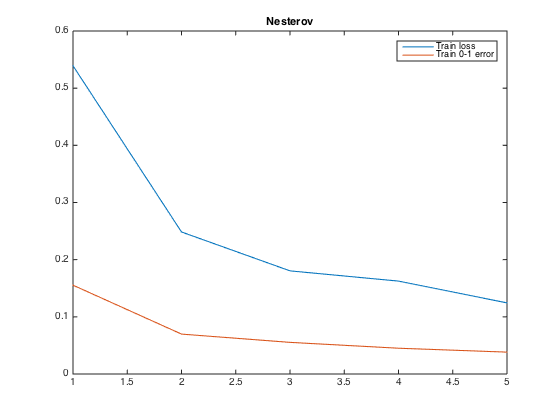
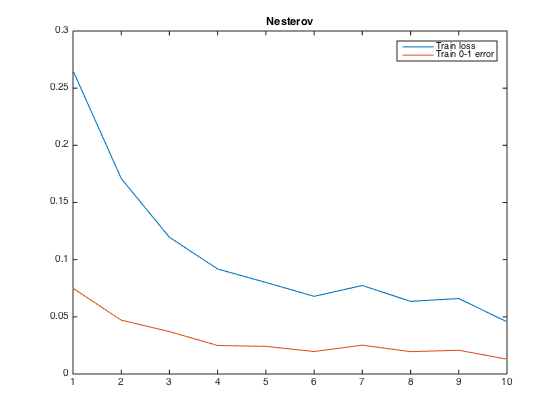
Orthogonal initialization + better data source
- Option for orthogonal initialization of weights
- Data source support large files

diff --git a/html/demoMNIST.html b/html/demoMNIST.html
@@ -6,7 +6,7 @@
    <!--
 This HTML was auto-generated from MATLAB code.
 To make changes, update the MATLAB code and republish this document.
-      --><title>a simple demonstration of the EasyConvNet code</title><meta name="generator" content="MATLAB 8.4"><link rel="schema.DC" href="http://purl.org/dc/elements/1.1/"><meta name="DC.date" content="2014-12-30"><meta name="DC.source" content="demoMNIST.m"><style type="text/css">
+      --><title>a simple demonstration of the EasyConvNet code</title><meta name="generator" content="MATLAB 8.4"><link rel="schema.DC" href="http://purl.org/dc/elements/1.1/"><meta name="DC.date" content="2015-01-28"><meta name="DC.source" content="demoMNIST.m"><style type="text/css">
 html,body,div,span,applet,object,iframe,h1,h2,h3,h4,h5,h6,p,blockquote,pre,a,abbr,acronym,address,big,cite,code,del,dfn,em,font,img,ins,kbd,q,s,samp,small,strike,strong,sub,sup,tt,var,b,u,i,center,dl,dt,dd,ol,ul,li,fieldset,form,label,legend,table,caption,tbody,tfoot,thead,tr,th,td{margin:0;padding:0;border:0;outline:0;font-size:100%;vertical-align:baseline;background:transparent}body{line-height:1}ol,ul{list-style:none}blockquote,q{quotes:none}blockquote:before,blockquote:after,q:before,q:after{content:'';content:none}:focus{outine:0}ins{text-decoration:none}del{text-decoration:line-through}table{border-collapse:collapse;border-spacing:0}
 
 html { min-height:100%; margin-bottom:1px; }
@@ -93,10 +93,10 @@ testLabels = <span class="string">'data/test.labels.bin'</span>;
     struct(<span class="string">'type'</span>,<span class="string">'relu'</span>,<span class="string">'inInd'</span>,7,<span class="string">'outInd'</span>,7),  <span class="keyword">...</span>
     struct(<span class="string">'type'</span>,<span class="string">'affine'</span>,<span class="string">'inInd'</span>,7,<span class="string">'outInd'</span>,8,<span class="string">'nOutChannels'</span>,10,<span class="string">'bias_filler'</span>,0), <span class="keyword">...</span>
     struct(<span class="string">'type'</span>,<span class="string">'loss'</span>,<span class="string">'inInd'</span>,[8 2],<span class="string">'outInd'</span>,10,<span class="string">'lossType'</span>,<span class="string">'MCLogLoss'</span>) };
-</pre><h2>initialize a network class<a name="4"></a></h2><pre class="codeinput">cnn = ConvNet(lenet,atGPU);
+</pre><h2>initialize a network class<a name="4"></a></h2><pre class="codeinput">cnn = ConvNet(lenet,atGPU,<span class="string">'Orthogonal'</span>);
 </pre><h2>For debugging purposes, show some images<a name="5"></a></h2><pre class="codeinput">x = cnn.net{1}.data.get(1); y = cnn.net{2}.data.get(1); [~,bla] = max(y);
 figure; <span class="keyword">for</span> i=1:25, subplot(5,5,i); imagesc(squeeze(x(:,:,:,i))'); colormap <span class="string">gray</span>; axis <span class="string">off</span>; title(sprintf(<span class="string">'%d'</span>,bla(i)-1));  <span class="keyword">end</span>
-</pre><img vspace="5" hspace="5" src="demoMNIST_01.png" alt=""> <h2>Train using SGD with Nesterov's momentum<a name="6"></a></h2><p>mandatory fields</p><pre class="codeinput">T = 500; mu = single(0.9); printIter = 100; lam =  single(0.0005);
+</pre><img vspace="5" hspace="5" src="demoMNIST_01.png" alt=""> <h2>Train using SGD with Nesterov's momentum<a name="6"></a></h2><p>mandatory fields</p><pre class="codeinput">T = 1000; mu = single(0.9); printIter = 100; lam =  single(0.0005);
 learning_rate = @(t)(0.01*(1+0.0001*t)^(-0.75)); <span class="comment">% learning rate rule</span>
 <span class="comment">% optional fields</span>
 param.snapshotFile = <span class="string">'/tmp/snapshot'</span>; param.printIter = 100; param.printDecay = 0.9;
@@ -104,11 +104,16 @@ param.snapshotFile = <span class="string">'/tmp/snapshot'</span>; param.printIte
 cnn.Nesterov(T,learning_rate,mu,lam,param);
 <span class="comment">% plot convergence</span>
 figure; plot(cnn.AllLoss'); title(<span class="string">'Nesterov'</span>); legend(<span class="string">'Train loss'</span>,<span class="string">'Train 0-1 error'</span>);
-</pre><pre class="codeoutput">Iter: 100: 0.539155 0.155343 
-Iter: 200: 0.248436 0.069815 
-Iter: 300: 0.180418 0.055339 
-Iter: 400: 0.162504 0.045102 
-Iter: 500: 0.124395 0.038260 
+</pre><pre class="codeoutput">Iter: 100: 0.265366 0.075039 
+Iter: 200: 0.171004 0.047117 
+Iter: 300: 0.119551 0.037094 
+Iter: 400: 0.091825 0.024946 
+Iter: 500: 0.080097 0.024165 
+Iter: 600: 0.067927 0.019668 
+Iter: 700: 0.077423 0.025204 
+Iter: 800: 0.063537 0.019559 
+Iter: 900: 0.065999 0.020782 
+Iter: 1000: 0.045626 0.012953 
 </pre><img vspace="5" hspace="5" src="demoMNIST_02.png" alt=""> <h2>calculate test error<a name="7"></a></h2><pre class="codeinput">testlenet = lenet;
 testlenet{1}.fName = testImages;
 testlenet{2}.fName = testLabels;
@@ -116,7 +121,7 @@ testNet = ConvNet(testlenet,atGPU);
 testNet.setTheta(cnn.theta);
 testNet.calcLossAndErr();
 fprintf(1,<span class="string">'Test loss= %f, Test accuracy = %f\n'</span>,testNet.Loss(1),1-testNet.Loss(2));
-</pre><pre class="codeoutput">Test loss= 0.099955, Test accuracy = 0.969900
+</pre><pre class="codeoutput">Test loss= 0.054117, Test accuracy = 0.982300
 </pre><p class="footer"><br><a href="http://www.mathworks.com/products/matlab/">Published with MATLAB&reg; R2014b</a><br></p></div><!--
 ##### SOURCE BEGIN #####
 %% a simple demonstration of the EasyConvNet code
@@ -167,7 +172,7 @@ lenet = { ...
 
 %% initialize a network class
 
-cnn = ConvNet(lenet,atGPU);
+cnn = ConvNet(lenet,atGPU,'Orthogonal');
 
 %% For debugging purposes, show some images
 x = cnn.net{1}.data.get(1); y = cnn.net{2}.data.get(1); [~,bla] = max(y);
@@ -176,7 +181,7 @@ figure; for i=1:25, subplot(5,5,i); imagesc(squeeze(x(:,:,:,i))'); colormap gray
 
 %% Train using SGD with Nesterov's momentum
 % mandatory fields
-T = 500; mu = single(0.9); printIter = 100; lam =  single(0.0005); 
+T = 1000; mu = single(0.9); printIter = 100; lam =  single(0.0005); 
 learning_rate = @(t)(0.01*(1+0.0001*t)^(-0.75)); % learning rate rule
 % optional fields
 param.snapshotFile = '/tmp/snapshot'; param.printIter = 100; param.printDecay = 0.9;

diff --git a/ConvNet.m b/ConvNet.m
@@ -22,8 +22,11 @@ classdef ConvNet < handle
     
     methods
         
-        function this = ConvNet(netD,atGPU)
+        function this = ConvNet(netD,atGPU,weightsInitialization)
             % Constructor. See demoMNIST for example
+            if nargin<3
+                weightsInitialization = 'Orthogonal';
+            end
             if atGPU
                 this.mygpuArray = @(x) gpuArray(x);
                 this.mygather = @(x) gather(x);
@@ -33,8 +36,17 @@ classdef ConvNet < handle
             end
             netD=this.add_reduced_conv_layers(netD);
             this.initializeNet(netD,atGPU);
+            this.initializeWeights(weightsInitialization);
             this.nLayers = length(this.net);
             this.delta = cell(size(this.O));
+            % make everything single and atGPU
+            this.theta = this.mygpuArray(single(this.theta));
+            for i=1:length(this.O)
+                if ~isempty(this.O{i})
+                    this.O{i} = this.mygpuArray(this.O{i});
+                end
+            end
+
         end
         
         % forward function
@@ -187,7 +199,7 @@ classdef ConvNet < handle
                 this.theta = this.theta + history;
                 
                 % choose mini batch
-                i = randi(m,1,1);
+                i = this.net{1}.data.nextRand();
                 % forward backward
                 this.forward(i);
                 this.backward(lam);
@@ -209,7 +221,7 @@ classdef ConvNet < handle
 
             for t=1:T
                 % choose mini batch
-                i = randi(m,1,1);
+                i = this.net{1}.data.nextRand();
                 % forward backward
                 this.forward(i);
                 this.backward(lam);
@@ -246,7 +258,7 @@ classdef ConvNet < handle
             
             for t=1:T
                 % choose mini batch
-                i = randi(m,1,1);
+                i = this.net{1}.data.nextRand();
                 galpha = this.mygpuArray(alpha(:,i));
                 % forward backward
                 this.forward(i);
@@ -380,7 +392,7 @@ classdef ConvNet < handle
                         
                         % then affine layer
                         nOut = netD{i}.nOutChannels;
-                        W = (rand(netD{i}.nOutChannels,blobDim(1))-0.5)/ sqrt(blobDim(1)) * sqrt(3);
+                        W = zeros(netD{i}.nOutChannels,blobDim(1));
                         Wind = length(this.theta)+(1:length(W(:)));
                         this.theta = [this.theta ; W(:)];
                         b = zeros(nOut,1) + netD{i}.bias_filler;
@@ -428,7 +440,7 @@ classdef ConvNet < handle
                         blobDim = size(this.O{inInd});
                         ncol = blobDim(2);
                         nrows = blobDim(1);
-                        W = (rand(netD{i}.nOutChannels,nrows)-0.5)/ sqrt(nrows) * sqrt(3);
+                        W = zeros(netD{i}.nOutChannels,nrows);
                         Wind = length(this.theta)+(1:length(W(:)));
                         this.theta = [this.theta ; W(:)];
                         b = zeros(netD{i}.nOutChannels,1) + netD{i}.bias_filler;
@@ -530,16 +542,7 @@ classdef ConvNet < handle
                         assert(false,'Unknown Layer type')
                 end
             end
-            
-            
-            % make everything single, atGPU, and allocate delta
-            this.theta = this.mygpuArray(single(this.theta));
-            for i=1:length(this.O)
-                if ~isempty(this.O{i})
-                    this.O{i} = this.mygpuArray(this.O{i});
-                end
-            end
-            
+                        
         end
         
         
@@ -672,6 +675,23 @@ classdef ConvNet < handle
             end
         end
 
+        
+        function initializeWeights(this,initMethod)
+            for i=1:length(this.net)
+                if strcmp(this.net{i}.type,'affine')
+                    switch initMethod
+                        case 'Orthogonal'
+                            [Q,~] = qr(randn(this.net{i}.Wshape)');
+                            W = Q(1:this.net{i}.Wshape(1),:);
+                        case 'Xavier'
+                            W = (rand(this.net{i}.Wshape)-0.5)/ sqrt(this.net{i}.Wshape(2)) * sqrt(3);
+                        otherwise
+                            fprintf(1,'Unknown initalization method %s\n',initMethod);
+                    end
+                    this.theta(this.net{i}.Ws:this.net{i}.We) = W(:);
+                end
+            end
+        end
         
     end
     

diff --git a/dataClass.m b/dataClass.m
@@ -4,9 +4,19 @@ classdef dataClass < handle
         X;
         scale;
         atGPU;
+        type;
         m;
         blobSize;
+        blobSizeBytes;
         cellInd;
+        fid;
+        curInd;
+        nExamplesInBlock;
+        curBlock;
+        blockInds;
+        nBlocks;
+        blockStart;
+        blockEnd;
     end
     
     
@@ -16,12 +26,19 @@ classdef dataClass < handle
             this.atGPU = atGPU;
             this.scale = scale;
             this.blobSize = blobSize;
+            this.type = type;
             
-            fid = fopen(fName,'rb');
-            this.X = fread(fid,maxExamples*prod(this.blobSize),type);
-            this.m = floor(length(this.X)/(prod(this.blobSize)));
-            this.X = reshape(this.X(1:(this.m*prod(this.blobSize))),[this.blobSize , this.m]);
-            fclose(fid);
+            this.fid = fopen(fName,'rb');
+            fread(this.fid,prod(this.blobSize),type);
+            this.blobSizeBytes = ftell(this.fid);
+            fseek(this.fid,0,'eof');
+            lenInBytes = ftell(this.fid);
+            this.m = min(floor(lenInBytes/this.blobSizeBytes),maxExamples);
+            
+            this.nExamplesInBlock = min(this.m, floor(2^30 / this.blobSizeBytes));
+            this.nBlocks = ceil(this.m / this.nExamplesInBlock);
+            this.curBlock = 0;
+            this.fetchBlock(1);
             
             this.cellInd = cell(length(size(this.X)),1); 
             for i=1:(length(this.cellInd)-1)
@@ -29,13 +46,45 @@ classdef dataClass < handle
             end
         end
 
+        function delete(this)
+            fclose(this.fid);
+        end
+        
         function x = get(this,i)
+            if i<this.blockStart || i>this.blockEnd
+                this.fetchBlock(ceil(i/this.nExamplesInBlock));
+            end
+            i = mod(i,this.nExamplesInBlock);
+            if i==0
+                i=length(this.blockInds);
+            end
             this.cellInd{end} = i;
             if this.atGPU
                 x = gpuArray(single(this.X(this.cellInd{:})*this.scale));
             else
                 x = single(this.X(this.cellInd{:})*this.scale);
             end
+        end
+        
+        function ind=nextRand(this)
+            if this.curInd == length(this.blockInds)
+                this.fetchBlock(randi(this.nBlocks,1,1));
+            end
+            this.curInd = this.curInd+1;
+            ind = this.blockInds(this.curInd);
+        end
+        
+        function fetchBlock(this,ind)
+            if ind ~= this.curBlock
+                this.curBlock = ind;
+                fseek(this.fid,(this.curBlock-1)*this.nExamplesInBlock*this.blobSizeBytes,'bof');
+                this.blockStart = (this.curBlock-1)*this.nExamplesInBlock + 1;
+                this.blockEnd = min(this.m,this.blockStart - 1 + this.nExamplesInBlock);
+                n = this.blockEnd - this.blockStart + 1;
+                this.X = reshape(fread(this.fid,n*prod(this.blobSize),this.type),[this.blobSize n]);
+            end
+            this.blockInds = this.blockStart-1 + randperm(this.blockEnd - this.blockStart + 1);
+            this.curInd = 0;
         end
         
     end

diff --git a/demoMNIST.m b/demoMNIST.m
@@ -46,7 +46,7 @@ lenet = { ...
 
 %% initialize a network class
 
-cnn = ConvNet(lenet,atGPU);
+cnn = ConvNet(lenet,atGPU,'Orthogonal');
 
 %% For debugging purposes, show some images
 x = cnn.net{1}.data.get(1); y = cnn.net{2}.data.get(1); [~,bla] = max(y);
@@ -55,7 +55,7 @@ figure; for i=1:25, subplot(5,5,i); imagesc(squeeze(x(:,:,:,i))'); colormap gray
 
 %% Train using SGD with Nesterov's momentum
 % mandatory fields
-T = 500; mu = single(0.9); printIter = 100; lam =  single(0.0005); 
+T = 1000; mu = single(0.9); printIter = 100; lam =  single(0.0005); 
 learning_rate = @(t)(0.01*(1+0.0001*t)^(-0.75)); % learning rate rule
 % optional fields
 param.snapshotFile = '/tmp/snapshot'; param.printIter = 100; param.printDecay = 0.9;
